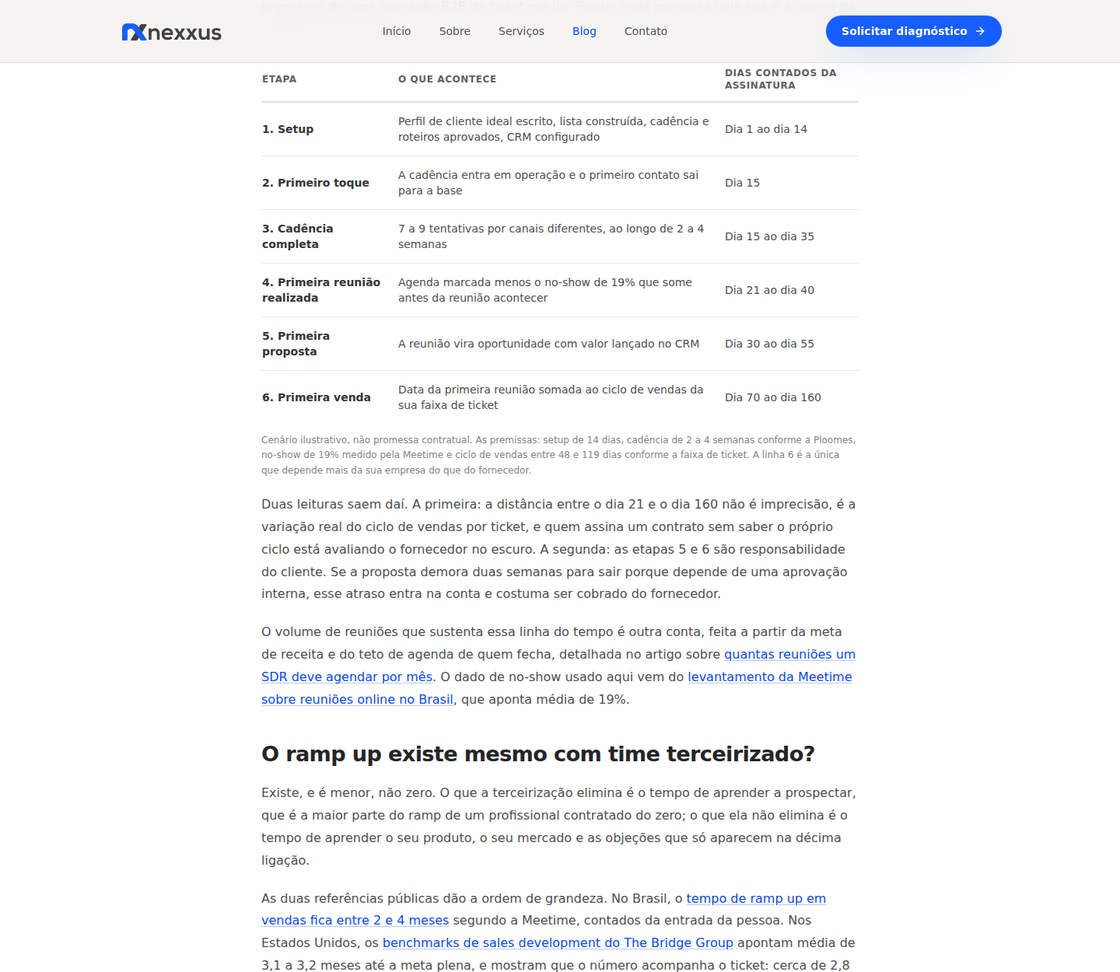
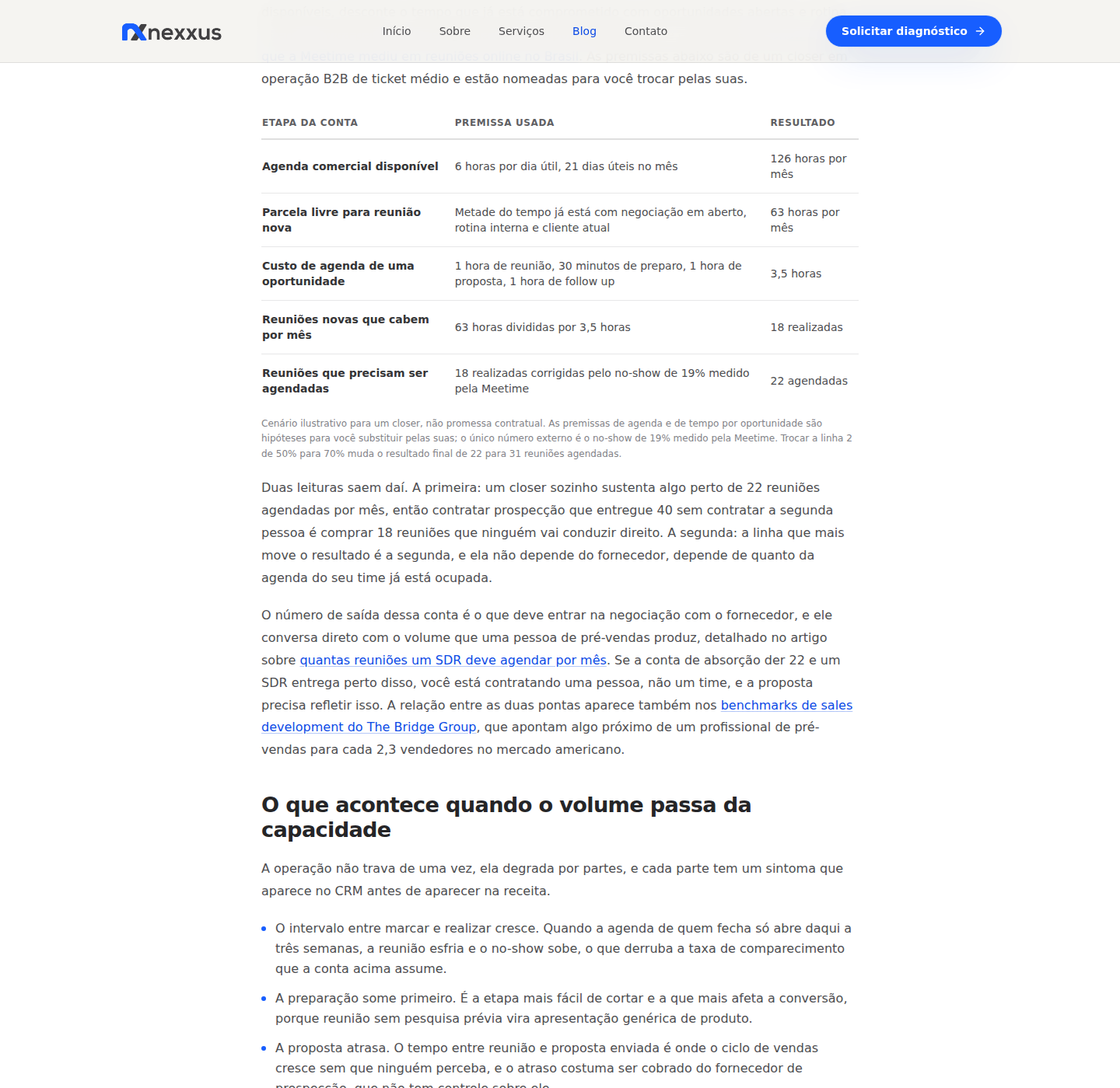
feat(blog): quem fecha a venda com prospeccao terceirizada + resgate do post orfao
Pauta nova
- src/data/posts/quem-fecha-a-venda-prospeccao-terceirizada.ts
- Conta de absorcao de reunioes por closer, com premissas nomeadas, e tabela
  dos tres desenhos de operacao com a falha tipica de cada um.
- 2 tabelas, FAQ com 6 perguntas, 6 links internos e 3 externos com fonte
  nomeada. JSON-LD: BlogPosting, BreadcrumbList, FAQPage e Organization.
- Capa 1500x1000 (3/2, so foto) e cartao social 1200x630 com titulo gravado,
  gerados do slides-blog-covers.html com foto real do escritorio.

Manutencao de indexacao (passe 3)
- terceirizacao-comercial-nao-deu-resultado estava sem nenhum link interno
  vindo de outro post, o padrao que joga a URL em "Descoberta, mas nao
  indexada". Passa a receber links de quanto-custa-terceirizar-time-de-vendas
  (a unica pagina com presenca organica confirmada), de
  quantas-reunioes-sdr-por-mes e do post novo.
- O post novo recebe link da pagina de servicos e de duas materias, para nao
  nascer orfao.
- Campo updated ajustado nos dois posts cujo texto mudou de verdade.

Verificador: 90,2 (corte 85). Passes 1, 2, 3, 4 e 5 aprovados; o passe de
design rodou com screenshot real em desktop e mobile do card, do topo do
artigo, das duas tabelas e da previa da home.

Claude-Session: https://claude.ai/code/session_013i4KbaHMVqwdQDrHk8B8ja

diff --git a/src/data/posts/quem-fecha-a-venda-prospeccao-terceirizada.ts b/src/data/posts/quem-fecha-a-venda-prospeccao-terceirizada.ts
@@ -1,0 +1,263 @@
+import type { Post } from './types'
+
+export const post: Post = {
+  slug: 'quem-fecha-a-venda-prospeccao-terceirizada',
+  title: 'Quem fecha a venda quando a prospecção é terceirizada',
+  excerpt:
+    'Quem fecha a venda quando a prospecção é terceirizada é quase sempre alguém do seu time. Veja a conta de quantas reuniões o seu lado absorve por mês.',
+  date: '2026-09-10',
+  readingMinutes: 10,
+  category: 'Estrutura do time',
+  cover: '/blog/cover-quem-fecha-a-venda.jpg',
+  ogImage: '/blog/og-quem-fecha-a-venda.jpg',
+  keywords: [
+    'quem fecha a venda quando a prospecção é terceirizada',
+    'prospecção terceirizada precisa de closer interno',
+    'SDR terceirizado e closer interno',
+    'capacidade de agenda do closer',
+    'handoff entre pré-vendas e vendas',
+    'terceirizar o fechamento da venda',
+  ],
+  content: [
+    {
+      type: 'p',
+      text: 'Quem fecha a venda quando a prospecção é terceirizada é, na maioria dos contratos do mercado brasileiro, alguém da sua empresa. O fornecedor entrega reunião na agenda e para ali: o que acontece dentro da reunião, a proposta, a negociação e a assinatura continuam do seu lado. Isso inverte a pergunta que costuma guiar a decisão de contratar, porque o número que limita o resultado raramente é quantas reuniões o fornecedor consegue gerar.',
+    },
+    {
+      type: 'p',
+      text: 'O limite real é quantas reuniões o seu lado consegue absorver e converter no mês. É um número finito, dá para calcular antes de assinar, e quase nenhuma proposta comercial do setor calcula. Este texto monta essa conta com premissas explícitas, mostra o que quebra na passagem do fornecedor para quem fecha e compara os três desenhos de operação com a falha típica de cada um.',
+    },
+
+    { type: 'h2', text: 'Quem fecha a venda quando a prospecção é terceirizada?' },
+    {
+      type: 'p',
+      text: 'Fecha a venda o time comercial do contratante, no arranjo mais comum, em que o fornecedor assume apenas a prospecção e a qualificação. Existe um segundo arranjo em que o fornecedor também fecha, e ele muda o preço, o risco e o que você precisa ter em casa.',
+    },
+    {
+      type: 'p',
+      text: 'Os três arranjos que aparecem em contrato têm consequências diferentes para a sua estrutura, e confundir um com o outro é o que produz a briga do mês 2.',
+    },
+    {
+      type: 'ul',
+      items: [
+        'Prospecção terceirizada com fechamento interno. O fornecedor entrega reunião qualificada e a venda é conduzida por quem já está na sua folha. É o desenho que exige menos do fornecedor e mais de você.',
+        'Squad completo terceirizado. O fornecedor prospecta, conduz a reunião e negocia até a proposta. Você continua decidindo preço, condição comercial e assinatura, porque essas três raramente saem da empresa.',
+        'Híbrido por porte de conta. O fornecedor fecha o que é padronizado e as contas maiores sobem para o seu time. Funciona quando o critério de corte está escrito, e vira confusão quando não está.',
+      ],
+    },
+
+    { type: 'h2', text: 'Por que o gargalo quase nunca é o número de reuniões' },
+    {
+      type: 'p',
+      text: 'Porque reunião parada na agenda não vira receita sozinha. Uma compilação de benchmarks do funil B2B brasileiro publicada pela [Spot Marketing, que reúne números do Inside Sales Benchmark Brasil da Meetime](https://spotmkt.com.br/blog/funil-de-vendas-b2b-benchmarks-brasil), coloca a conversão de reunião realizada em cliente entre 31% e 39%.',
+    },
+    {
+      type: 'p',
+      text: 'Leia essa faixa junto com a sua estrutura e o problema aparece. Se a cada dez reuniões realizadas três viram cliente, dobrar o volume contratado só produz receita se quem fecha tiver agenda para receber o dobro com a mesma qualidade de condução. Quando não tem, a taxa cai antes do volume subir, e o resultado do contrato piora justamente no mês em que o fornecedor entregou mais.',
+    },
+    {
+      type: 'quote',
+      text: 'Comprar mais reunião do que o seu time consegue conduzir não acelera a receita. Acelera o desgaste da base, que é o ativo mais caro de recuperar.',
+    },
+
+    { type: 'h2', text: 'A conta de quantas reuniões o seu lado absorve por mês' },
+    {
+      type: 'p',
+      text: 'A conta parte da agenda de quem fecha, não da meta de receita. Some as horas comerciais disponíveis, desconte o tempo que já está comprometido com oportunidades abertas e rotina interna, divida pelo custo de agenda de uma oportunidade nova e corrija pelo [no-show de 19% que a Meetime mediu em reuniões online no Brasil](https://meetime.com.br/blog/labs/no-show-em-reunioes-online/). As premissas abaixo são de um closer em operação B2B de ticket médio e estão nomeadas para você trocar pelas suas.',
+    },
+    {
+      type: 'table',
+      headers: ['Etapa da conta', 'Premissa usada', 'Resultado'],
+      rows: [
+        [
+          'Agenda comercial disponível',
+          '6 horas por dia útil, 21 dias úteis no mês',
+          '126 horas por mês',
+        ],
+        [
+          'Parcela livre para reunião nova',
+          'Metade do tempo já está com negociação em aberto, rotina interna e cliente atual',
+          '63 horas por mês',
+        ],
+        [
+          'Custo de agenda de uma oportunidade',
+          '1 hora de reunião, 30 minutos de preparo, 1 hora de proposta, 1 hora de follow up',
+          '3,5 horas',
+        ],
+        [
+          'Reuniões novas que cabem por mês',
+          '63 horas divididas por 3,5 horas',
+          '18 realizadas',
+        ],
+        [
+          'Reuniões que precisam ser agendadas',
+          '18 realizadas corrigidas pelo no-show de 19% medido pela Meetime',
+          '22 agendadas',
+        ],
+      ],
+      caption:
+        'Cenário ilustrativo para um closer, não promessa contratual. As premissas de agenda e de tempo por oportunidade são hipóteses para você substituir pelas suas; o único número externo é o no-show de 19% medido pela Meetime. Trocar a linha 2 de 50% para 70% muda o resultado final de 22 para 31 reuniões agendadas.',
+    },
+    {
+      type: 'p',
+      text: 'Duas leituras saem daí. A primeira: um closer sozinho sustenta algo perto de 22 reuniões agendadas por mês, então contratar prospecção que entregue 40 sem contratar a segunda pessoa é comprar 18 reuniões que ninguém vai conduzir direito. A segunda: a linha que mais move o resultado é a segunda, e ela não depende do fornecedor, depende de quanto da agenda do seu time já está ocupada.',
+    },
+    {
+      type: 'p',
+      text: 'O número de saída dessa conta é o que deve entrar na negociação com o fornecedor, e ele conversa direto com o volume que uma pessoa de pré-vendas produz, detalhado no artigo sobre [quantas reuniões um SDR deve agendar por mês](/blog/quantas-reunioes-sdr-por-mes). Se a conta de absorção der 22 e um SDR entrega perto disso, você está contratando uma pessoa, não um time, e a proposta precisa refletir isso. A relação entre as duas pontas aparece também nos [benchmarks de sales development do The Bridge Group](https://blog.bridgegroupinc.com/sales-development-metrics), que apontam algo próximo de um profissional de pré-vendas para cada 2,3 vendedores no mercado americano.',
+    },
+
+    { type: 'h2', text: 'O que acontece quando o volume passa da capacidade' },
+    {
+      type: 'p',
+      text: 'A operação não trava de uma vez, ela degrada por partes, e cada parte tem um sintoma que aparece no CRM antes de aparecer na receita.',
+    },
+    {
+      type: 'ul',
+      items: [
+        'O intervalo entre marcar e realizar cresce. Quando a agenda de quem fecha só abre daqui a três semanas, a reunião esfria e o no-show sobe, o que derruba a taxa de comparecimento que a conta acima assume.',
+        'A preparação some primeiro. É a etapa mais fácil de cortar e a que mais afeta a conversão, porque reunião sem pesquisa prévia vira apresentação genérica de produto.',
+        'A proposta atrasa. O tempo entre reunião e proposta enviada é onde o ciclo de vendas cresce sem que ninguém perceba, e o atraso costuma ser cobrado do fornecedor de prospecção, que não tem controle sobre ele.',
+        'O critério de aceite afrouxa. Com agenda sobrando o closer recusa reunião fora do perfil; com agenda lotada ele para de recusar e passa a não comparecer, o que destrói o dado que serviria para corrigir a lista.',
+        'A base queima. Conta abordada, atendida sem preparo e nunca retomada não volta a atender em seis meses, e o custo disso não aparece em nenhuma linha do contrato.',
+      ],
+    },
+    {
+      type: 'p',
+      text: 'Quando esses sintomas aparecem juntos, a leitura mais comum é que o fornecedor entregou reunião ruim. Às vezes é isso mesmo, e a forma de separar uma coisa da outra está no artigo sobre [terceirização comercial que não deu resultado](/blog/terceirizacao-comercial-nao-deu-resultado), que percorre os sintomas na ordem em que eles distinguem falha de execução de falha de desenho.',
+    },
+
+    { type: 'h2', text: 'O que precisa passar do fornecedor para quem fecha' },
+    {
+      type: 'p',
+      text: 'A passagem de bastão é onde a maior parte da conversão se perde, e ela se perde por falta de registro, não por falta de talento. Quem recebe a reunião precisa chegar sabendo cinco coisas, e todas elas cabem em campos de CRM.',
+    },
+    {
+      type: 'ul',
+      items: [
+        'Por que essa conta entrou na lista. O critério de segmentação que fez a empresa ser abordada, porque ele é a primeira hipótese de valor da conversa.',
+        'O que a pessoa disse que dói. A frase do prospect, registrada como ele falou, não traduzida para o vocabulário do seu material de vendas.',
+        'Quem é quem na decisão. Cargo de quem aceitou a reunião, se ele decide ou influencia, e quem mais precisa estar na segunda conversa.',
+        'O que já foi prometido. Toda expectativa criada na abordagem, inclusive a que o fornecedor criou por conta própria e que você vai precisar sustentar.',
+        'O motivo de recusa, quando houver. Reunião recusada sem motivo registrado é dado perdido, e é o único insumo que corrige a lista do mês seguinte.',
+      ],
+    },
+    {
+      type: 'p',
+      text: 'Esses cinco campos só funcionam se existir um critério escrito do que a sua empresa aceita como reunião válida, com consequência contratual quando o critério não é atendido. O desenho desse critério, com os motivos de recusa e o que fazer com a reunião recusada, está no artigo sobre [o que conta como reunião qualificada](/blog/o-que-conta-como-reuniao-qualificada).',
+    },
+
+    { type: 'h2', text: 'Três desenhos de operação e quem responde por cada etapa' },
+    {
+      type: 'p',
+      text: 'A escolha entre os desenhos não é sobre qual é melhor, é sobre qual falha você prefere administrar. Cada linha da tabela tem uma exigência que costuma ser descoberta depois da assinatura.',
+    },
+    {
+      type: 'table',
+      headers: [
+        'Desenho',
+        'Quem prospecta',
+        'Quem fecha',
+        'O que você precisa ter',
+        'Falha típica',
+      ],
+      rows: [
+        [
+          'Prospecção terceirizada, fechamento interno',
+          'Fornecedor',
+          'Seu time',
+          'Pelo menos uma pessoa com agenda livre e autonomia para negociar',
+          'Agenda lotada, reunião esfria e o no-show sobe',
+        ],
+        [
+          'Squad completo terceirizado',
+          'Fornecedor',
+          'Fornecedor até a proposta',
+          'Alguém seu decidindo preço e condição comercial em 48 horas',
+          'Falta de profundidade no produto trava a segunda conversa',
+        ],
+        [
+          'Híbrido por porte de conta',
+          'Fornecedor',
+          'Fornecedor no padrão, seu time nas contas grandes',
+          'Critério de corte escrito por porte, receita ou complexidade',
+          'Critério vago manda a conta grande para o fluxo errado',
+        ],
+        [
+          'Tudo interno',
+          'Seu time',
+          'Seu time',
+          'Tempo de recrutar e treinar antes de existir a primeira reunião',
+          'Closer prospectando, que é a hora mais cara da empresa na tarefa mais barata',
+        ],
+      ],
+      caption:
+        'A coluna que decide na prática é a quarta. Nenhum dos três primeiros desenhos funciona sem o item dela, e é ele que costuma faltar quando a operação é avaliada no mês 3.',
+    },
+    {
+      type: 'p',
+      text: 'A última linha existe na tabela por um motivo específico: ela é a referência de custo das outras três. A comparação completa entre montar a estrutura em casa e contratar pronta, com o que cada caminho cobra em tempo e em dinheiro, está no artigo sobre [terceirizar ou estruturar o comercial interno](/blog/terceirizar-ou-estruturar-comercial-interno).',
+    },
+
+    { type: 'h2', text: 'Quando vale terceirizar também o fechamento' },
+    {
+      type: 'p',
+      text: 'Vale quando o produto é explicável em uma conversa e o preço cabe em tabela. Não vale quando a venda depende de diagnóstico técnico, customização ou de uma relação que só quem é da casa sustenta.',
+    },
+    {
+      type: 'ul',
+      items: [
+        'Ticket e complexidade. Oferta padronizada com escopo fechado sai da mão de um closer treinado; projeto que muda de escopo a cada conversa não sai.',
+        'Autonomia de preço. Se cada desconto sobe para aprovação interna, terceirizar o fechamento adiciona um elo à cadeia e alonga o ciclo em vez de encurtar.',
+        'Volume por segmento. Faz sentido no segmento com muitas contas parecidas, e deixa de fazer na conta grande, que costuma ser onde está a margem.',
+        'Continuidade. Quem fechou some quando o contrato acaba, então o histórico da negociação precisa estar no seu CRM desde o primeiro dia, não no do fornecedor.',
+      ],
+    },
+    {
+      type: 'p',
+      text: 'O quarto item é o que mais aparece tarde. Terceirizar o fechamento sem exigir registro no seu próprio CRM significa que o encerramento do contrato leva junto o motivo pelo qual cada negociação foi perdida, que é exatamente o dado necessário para o contrato seguinte funcionar melhor.',
+    },
+
+    { type: 'h2', text: 'Como a Nexxus trata essa divisão antes de assinar' },
+    {
+      type: 'p',
+      text: 'Rodamos a conta de absorção com o cliente antes de propor volume, usando a agenda real de quem vai receber as reuniões e não a meta de receita do ano. Quando a conta mostra que o time absorve menos do que a meta exige, a conversa deixa de ser sobre contratar mais prospecção e passa a ser sobre a segunda pessoa no fechamento, mesmo quando isso reduz o tamanho do contrato que estamos vendendo.',
+    },
+    {
+      type: 'p',
+      text: 'A segunda regra é que o registro da passagem de bastão fica no CRM do cliente desde a primeira reunião, com os cinco campos listados acima. Números de operação, faixa de investimento e metas contratadas variam por cliente e não são benchmark de mercado, então não os publicamos aqui. O desenho da operação que assumimos, com as funções que entram em cada formato, está na [página de serviços de estruturação e terceirização comercial](/servicos), e o cronograma até a primeira reunião está no artigo sobre [em quanto tempo a terceirização comercial dá resultado](/blog/quanto-tempo-terceirizacao-comercial-da-resultado).',
+    },
+  ],
+  faq: [
+    {
+      pergunta: 'Quem fecha a venda quando a prospecção é terceirizada?',
+      resposta:
+        'No arranjo mais comum do mercado brasileiro, quem fecha é o time comercial do contratante: o fornecedor entrega a reunião qualificada na agenda e a condução, a proposta e a negociação seguem internas. Existe o formato de squad completo, em que o fornecedor também conduz a reunião e negocia até a proposta, mas preço, condição comercial e assinatura quase sempre continuam sendo decisão da empresa contratante.',
+    },
+    {
+      pergunta: 'Preciso ter um vendedor interno para terceirizar a prospecção?',
+      resposta:
+        'Precisa ter alguém com agenda livre e autonomia para negociar, seja um vendedor dedicado, seja o próprio dono nas operações menores. O que não funciona é contratar prospecção sem ninguém do outro lado com horário disponível, porque a reunião entregue e não conduzida esfria, aumenta o no-show e queima a conta, que é o ativo mais caro de recuperar.',
+    },
+    {
+      pergunta: 'Quantas reuniões um closer consegue absorver por mês?',
+      resposta:
+        'Depende de quanto da agenda dele já está comprometida. Com a premissa de 6 horas comerciais por dia, 21 dias úteis, metade do tempo ocupado com negociações em aberto e rotina interna, e 3,5 horas de agenda por oportunidade nova entre reunião, preparo, proposta e follow up, cabem cerca de 18 reuniões realizadas por mês. Corrigindo pelo no-show de 19% medido pela Meetime, isso equivale a cerca de 22 reuniões agendadas.',
+    },
+    {
+      pergunta: 'O que devo exigir que o fornecedor registre em cada reunião entregue?',
+      resposta:
+        'Cinco itens, todos em campo de CRM: o critério de segmentação que colocou a conta na lista, a dor descrita com as palavras do prospect, o cargo e o papel de quem aceitou a reunião, tudo o que foi prometido na abordagem e o motivo de recusa quando a reunião não é aceita. Sem o quinto item não existe forma de corrigir a lista do mês seguinte, e a discussão sobre qualidade vira opinião contra opinião.',
+    },
+    {
+      pergunta: 'Vale a pena terceirizar o fechamento junto com a prospecção?',
+      resposta:
+        'Vale quando a oferta é padronizada, o escopo é fechado e o preço cabe em tabela, porque nesse caso um closer treinado conduz a conversa inteira. Não vale quando a venda depende de diagnóstico técnico, de customização a cada proposta ou quando todo desconto precisa de aprovação interna, já que aí terceirizar o fechamento adiciona um elo à cadeia de decisão e alonga o ciclo em vez de encurtar.',
+    },
+    {
+      pergunta: 'Como saber se o problema é a reunião entregue ou o meu fechamento?',
+      resposta:
+        'Olhe onde a reunião para. Se a maioria é recusada por quem fecha antes de acontecer, o problema está no perfil de cliente ideal e na lista. Se as reuniões acontecem e poucas avançam para proposta, o problema costuma estar na condução ou na proposta de valor, não na prospecção. E se as reuniões acontecem mas a proposta demora semanas para sair, o gargalo é de agenda do seu lado, que é exatamente o que a conta de absorção antecipa antes de assinar.',
+    },
+  ],
+}

diff --git a/src/data/posts/quantas-reunioes-sdr-por-mes.ts b/src/data/posts/quantas-reunioes-sdr-por-mes.ts
@@ -6,7 +6,7 @@ export const post: Post = {
   excerpt:
     'Quantas reuniões um SDR deve agendar por mês? O benchmark fica entre 12 e 20. Veja como chegar ao seu número pela meta de receita, no-show e teto do closer.',
   date: '2026-08-25',
-  updated: '2026-09-03',
+  updated: '2026-09-10',
   readingMinutes: 10,
   category: 'Métricas e Metas',
   cover: '/blog/cover-quantas-reunioes-sdr.jpg',
@@ -140,13 +140,13 @@ export const post: Post = {
       items: [
         'A taxa de reunião para oportunidade caiu. O SDR continua batendo a meta, mas o closer passa a recusar mais reuniões. É qualificação sendo sacrificada por volume, e o custo aparece na agenda de quem fecha.',
         'O no-show passou de 20%. Acima dessa marca, a referência do The Bridge Group trata como problema de processo. Costuma ser intervalo grande demais entre o agendamento e a reunião, ou lead que aceitou a reunião só para encerrar a ligação.',
-        'A fila do closer cresceu. Se a reunião marcada hoje só acontece na semana que vem, o gargalo mudou de lugar e mais prospecção não resolve.',
+        'A fila do closer cresceu. Se a reunião marcada hoje só acontece na semana que vem, o gargalo mudou de lugar e mais prospecção não resolve. A conta que dimensiona esse teto está em [quem fecha a venda quando a prospecção é terceirizada](/blog/quem-fecha-a-venda-prospeccao-terceirizada).',
         'A base está queimando. O mesmo contato sendo abordado a cada 45 dias por causa da meta destrói a lista que sustentaria os próximos trimestres.',
       ],
     },
     {
       type: 'p',
-      text: 'Nenhum desses quatro sinais aparece no relatório de reuniões agendadas, que é justamente o relatório que a maioria das operações olha. Todos aparecem cruzando reunião agendada com reunião aceita pelo closer, que é o cruzamento mais barato de montar em qualquer CRM.',
+      text: 'Nenhum desses quatro sinais aparece no relatório de reuniões agendadas, que é justamente o relatório que a maioria das operações olha. Todos aparecem cruzando reunião agendada com reunião aceita pelo closer, que é o cruzamento mais barato de montar em qualquer CRM. Quando os quatro aparecem juntos e a conclusão interna já é a de que o contrato falhou, vale percorrer antes o [diagnóstico de terceirização comercial que não deu resultado](/blog/terceirizacao-comercial-nao-deu-resultado), porque três dos quatro sinais têm causa fora da prospecção.',
     },
 
     { type: 'h2', text: 'Como a Nexxus define a meta de reuniões' },

diff --git a/src/data/posts/quanto-custa-terceirizar-time-de-vendas.ts b/src/data/posts/quanto-custa-terceirizar-time-de-vendas.ts
@@ -6,7 +6,7 @@ export const post: Post = {
   excerpt:
     'Ninguém no setor publica número. Aqui está a conta aberta dos dois lados: o custo real de um time comercial CLT em 2026, o que muda conforme o regime tributário, os três modelos de cobrança da terceirização e os cenários em que terceirizar não compensa.',
   date: '2026-07-26',
-  updated: '2026-09-03',
+  updated: '2026-09-10',
   readingMinutes: 9,
   category: 'Custos e Investimento',
   cover: '/blog/cover-quanto-custa-terceirizar.jpg',
@@ -166,10 +166,10 @@ export const post: Post = {
       type: 'ul',
       items: [
         'Qual é o critério escrito de reunião qualificada, e o que acontece quando uma reunião não atende a esse critério? Os seis itens que essa cláusula precisa ter estão em [o que conta como reunião qualificada](/blog/o-que-conta-como-reuniao-qualificada). Antes de aceitar qualquer meta, compare com o que o mercado entrega em [quantas reuniões um SDR deve agendar por mês](/blog/quantas-reunioes-sdr-por-mes).',
-        'Quem exatamente vai trabalhar na minha conta, e essa pessoa atende quantos clientes ao mesmo tempo?',
+        'Quem exatamente vai trabalhar na minha conta, e essa pessoa atende quantos clientes ao mesmo tempo? Defina na mesma conversa quem conduz a reunião depois de agendada, porque a resposta muda o escopo do contrato: o assunto está em [quem fecha a venda quando a prospecção é terceirizada](/blog/quem-fecha-a-venda-prospeccao-terceirizada).',
         'Em quanto tempo a operação está no ar, e o que precisa de mim para esse prazo valer?',
         'Quais indicadores eu recebo, com que frequência, e eu tenho acesso direto ao CRM?',
-        'Se em 90 dias o resultado não vier, o que muda no plano? Existe algo contratualizado nesse sentido?',
+        'Se em 90 dias o resultado não vier, o que muda no plano? Existe algo contratualizado nesse sentido? A régua para separar falha de execução de falha de desenho está em [como diagnosticar uma terceirização comercial que não deu resultado](/blog/terceirizacao-comercial-nao-deu-resultado).',
         'A licença das ferramentas está inclusa ou é cobrada à parte?',
         'Ao fim do contrato, o que fica comigo: a base, as gravações, o playbook?',
       ],

diff --git a/carrossel/slides-blog-covers.build.html b/carrossel/slides-blog-covers.build.html
@@ -118,6 +118,11 @@
   <div class="grade"></div><div class="edge"></div><img class="logo" alt="">
 </div>
 
+<div class="cover" data-slug="quem-fecha-a-venda">
+  <div class="photo" style="background-image:url('img/global/sala-reuniao.webp'); background-position:center 62%;"></div>
+  <div class="grade"></div><div class="edge"></div><img class="logo" alt="">
+</div>
+
 <!-- ══════════ CARTÕES SOCIAIS (1200x630, com título) ══════════ -->
 
 <div class="og" data-slug="og-terceirizacao">
@@ -206,6 +211,17 @@
     <h1 class="sm">Terceirização comercial não deu<br>resultado: <span class="hl">como diagnosticar</span></h1>
   </div>
   <footer><span class="meta">Blog Nexxus · <b>9 min de leitura</b></span><span class="site">nexxusagencia.com.br</span></footer>
+</div>
+
+<div class="og clara" data-slug="og-quem-fecha-a-venda">
+  <div class="photo" style="background-image:url('img/global/sala-reuniao.webp'); background-position:center 62%;"></div>
+  <div class="shade"></div><div class="edge"></div>
+  <header><img class="logo" alt="Nexxus"><span class="chip">Estrutura do time</span></header>
+  <div class="body">
+    <div class="rule"></div>
+    <h1 class="sm">Quem fecha a venda quando a<br>prospecção é <span class="hl">terceirizada</span></h1>
+  </div>
+  <footer><span class="meta">Blog Nexxus · <b>10 min de leitura</b></span><span class="site">nexxusagencia.com.br</span></footer>
 </div>
 
 <!-- Cartão social padrão do site -->

diff --git a/carrossel/slides-blog-covers.html b/carrossel/slides-blog-covers.html
@@ -118,6 +118,11 @@
   <div class="grade"></div><div class="edge"></div><img class="logo" alt="">
 </div>
 
+<div class="cover" data-slug="quem-fecha-a-venda">
+  <div class="photo" style="background-image:url('img/global/sala-reuniao.webp'); background-position:center 62%;"></div>
+  <div class="grade"></div><div class="edge"></div><img class="logo" alt="">
+</div>
+
 <!-- ══════════ CARTÕES SOCIAIS (1200x630, com título) ══════════ -->
 
 <div class="og" data-slug="og-terceirizacao">
@@ -206,6 +211,17 @@
     <h1 class="sm">Terceirização comercial não deu<br>resultado: <span class="hl">como diagnosticar</span></h1>
   </div>
   <footer><span class="meta">Blog Nexxus · <b>9 min de leitura</b></span><span class="site">nexxusagencia.com.br</span></footer>
+</div>
+
+<div class="og clara" data-slug="og-quem-fecha-a-venda">
+  <div class="photo" style="background-image:url('img/global/sala-reuniao.webp'); background-position:center 62%;"></div>
+  <div class="shade"></div><div class="edge"></div>
+  <header><img class="logo" alt="Nexxus"><span class="chip">Estrutura do time</span></header>
+  <div class="body">
+    <div class="rule"></div>
+    <h1 class="sm">Quem fecha a venda quando a<br>prospecção é <span class="hl">terceirizada</span></h1>
+  </div>
+  <footer><span class="meta">Blog Nexxus · <b>10 min de leitura</b></span><span class="site">nexxusagencia.com.br</span></footer>
 </div>
 
 <!-- Cartão social padrão do site -->

diff --git a/src/data/posts/index.ts b/src/data/posts/index.ts
@@ -15,10 +15,11 @@ import { post as p5 } from './quantas-reunioes-sdr-por-mes'
 import { post as p6 } from './quanto-tempo-terceirizacao-comercial-da-resultado'
 import { post as p7 } from './o-que-conta-como-reuniao-qualificada'
 import { post as p8 } from './terceirizacao-comercial-nao-deu-resultado'
+import { post as p9 } from './quem-fecha-a-venda-prospeccao-terceirizada'
 
 export type { Post, PostBlock, PostFaq } from './types'
 
-const registered: Post[] = [p1, p2, p3, p4, p5, p6, p7, p8]
+const registered: Post[] = [p1, p2, p3, p4, p5, p6, p7, p8, p9]
 
 /** Todos os posts, ordenados do mais recente para o mais antigo */
 export const allPosts: Post[] = [...registered].sort(

diff --git a/src/pages/Servicos.tsx b/src/pages/Servicos.tsx
@@ -42,6 +42,12 @@ const leiturasAntesDeContratar = [
     resumo: 'Os seis itens que o critério de aceite precisa ter escrito em contrato.',
   },
   {
+    to: '/blog/quem-fecha-a-venda-prospeccao-terceirizada',
+    titulo: 'Quem fecha a venda quando a prospecção é terceirizada',
+    resumo:
+      'A conta de quantas reuniões o seu time absorve por mês e os três desenhos de operação possíveis.',
+  },
+  {
     to: '/blog/por-que-terceirizar-operacao-comercial',
     titulo: 'Por que terceirizar a operação comercial',
     resumo: 'Os custos ocultos de montar a estrutura comercial própria, item por item.',
